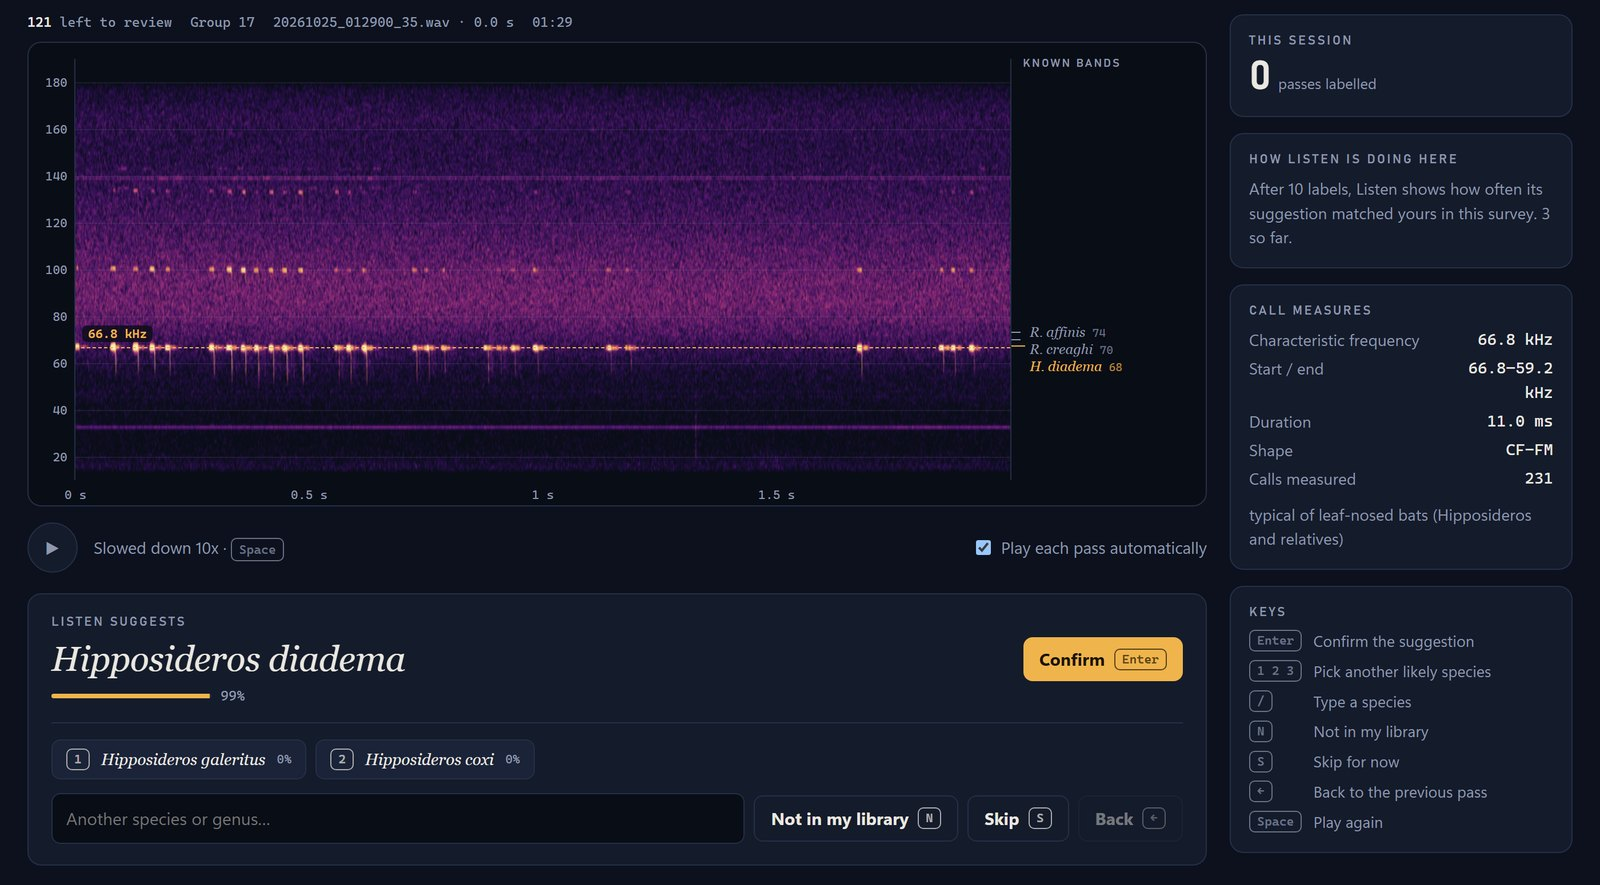
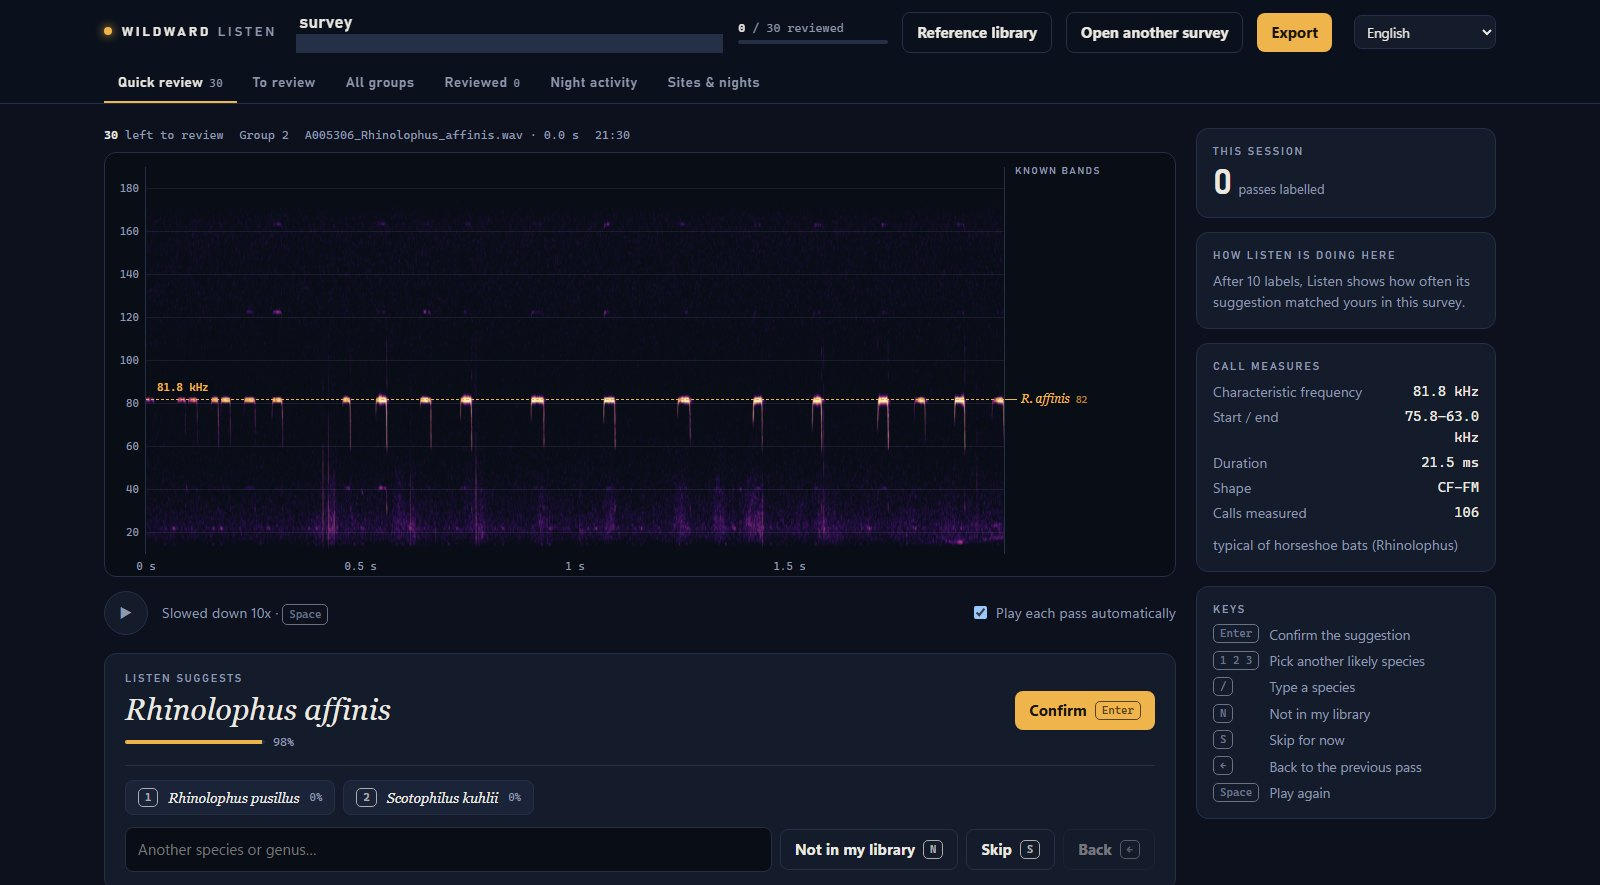
Listen screenshot now uses a CC BY recording (Neil M. Furey, A005306)

diff --git a/index.html b/index.html
@@ -324,14 +324,14 @@ footer a { color: inherit; }
       </div>
       <figure class="screen">
         <div class="bar" aria-hidden="true"><i></i><i></i><i></i><span>WildWard Listen · Quick review</span></div>
-        <img src="img/listen-quick-review.jpg" alt="WildWard Listen's Quick review screen: a spectrogram of a bat pass with calls at 66.8 kHz, a ruler of known species frequencies beside it, and the suggestion Hipposideros diadema with a Confirm button" width="1600" height="885" loading="lazy">
+        <img src="img/listen-quick-review.jpg" alt="WildWard Listen's Quick review screen: a spectrogram of a bat pass with calls at 81.8 kHz, a ruler of known species frequencies beside it, and the suggestion Rhinolophus affinis with a Confirm button" width="1600" height="885" loading="lazy">
       </figure>
       <ul class="app-points">
         <li><b>Enter</b> confirms. <b>1-3</b> picks the next most likely species. <b>N</b> marks a bat that isn't in your library.</li>
         <li>The ruler beside each call shows which known species call at that frequency, so a wrong guess is easy to spot.</li>
         <li>Unsure of the species? It says the genus instead, and checks itself against your labels as you go.</li>
       </ul>
-      <p class="note">Screenshot from a test night of ChiroVox recordings. Also in the app: groups of similar calls to label at once, unusual-frequency flags, night activity charts, detector maps and records exported ready for GBIF.</p>
+      <p class="note">Screenshot from a demo survey of <a href="https://creativecommons.org/licenses/by/4.0/">CC BY 4.0</a> recordings by Neil M. Furey on ChiroVox; spectrogram drawn by Listen from recording A005306. Also in the app: groups of similar calls to label at once, unusual-frequency flags, night activity charts, detector maps and records exported ready for GBIF.</p>
     </div>
 
     <div class="wrap findings" aria-labelledby="findings-title">
